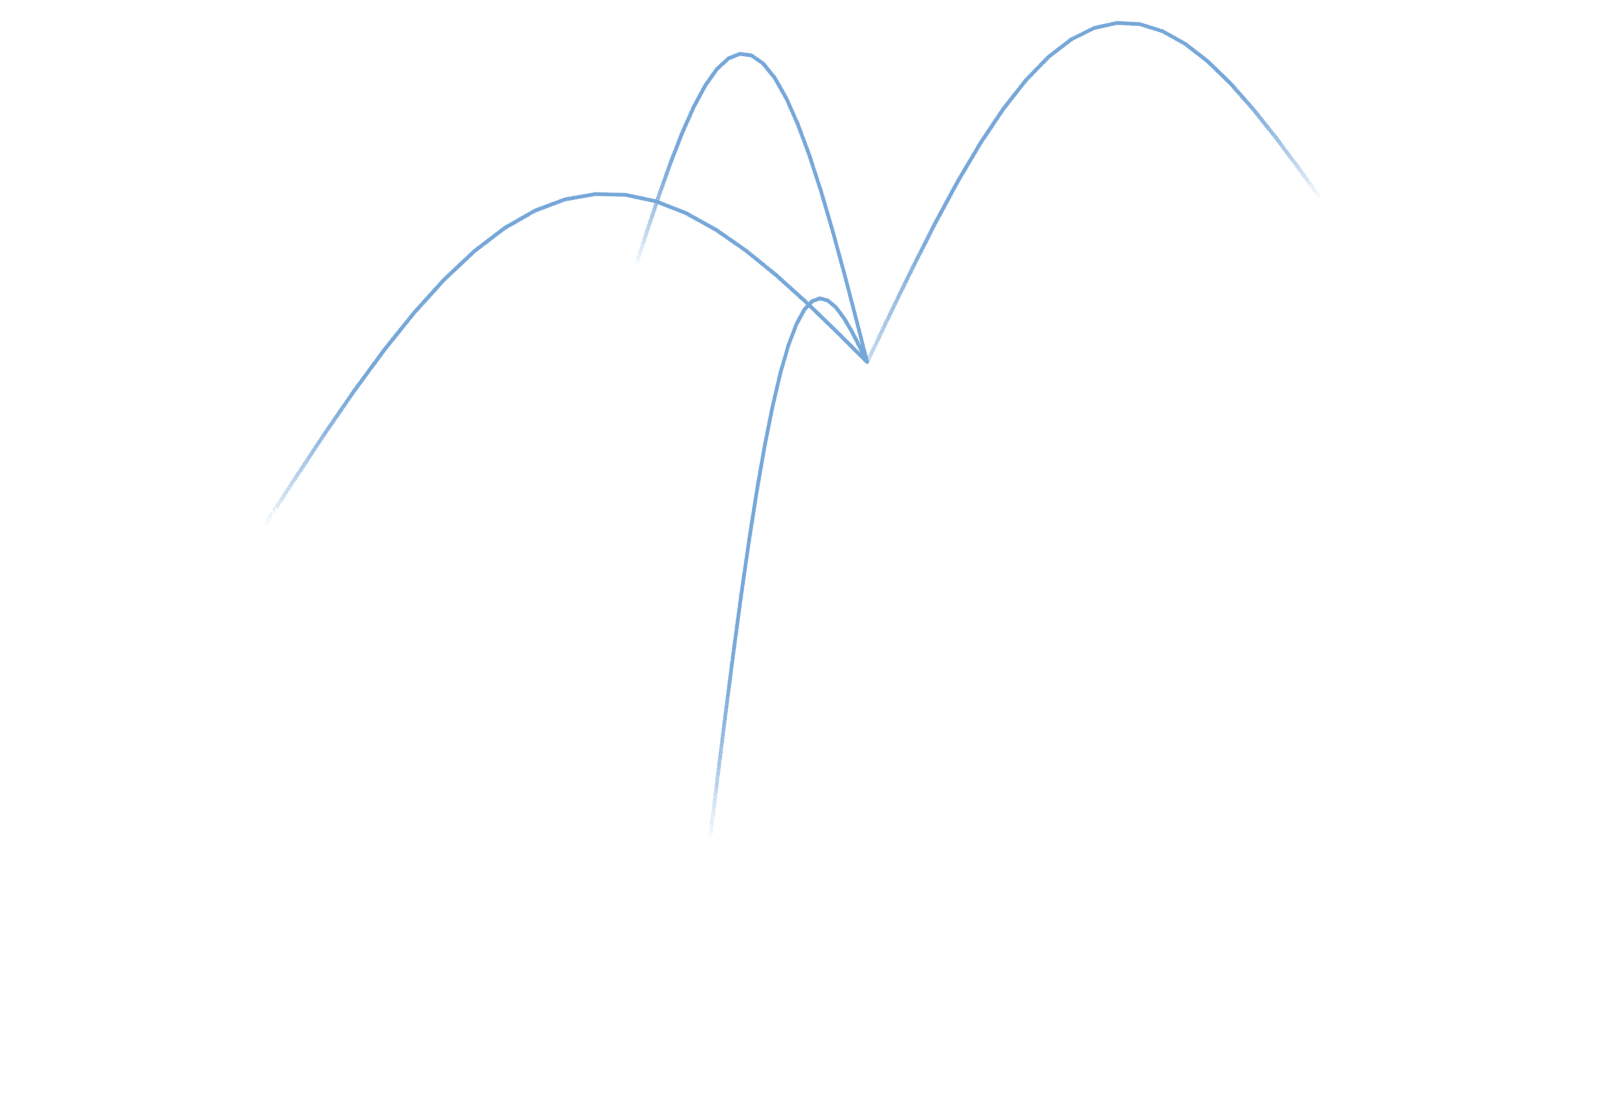
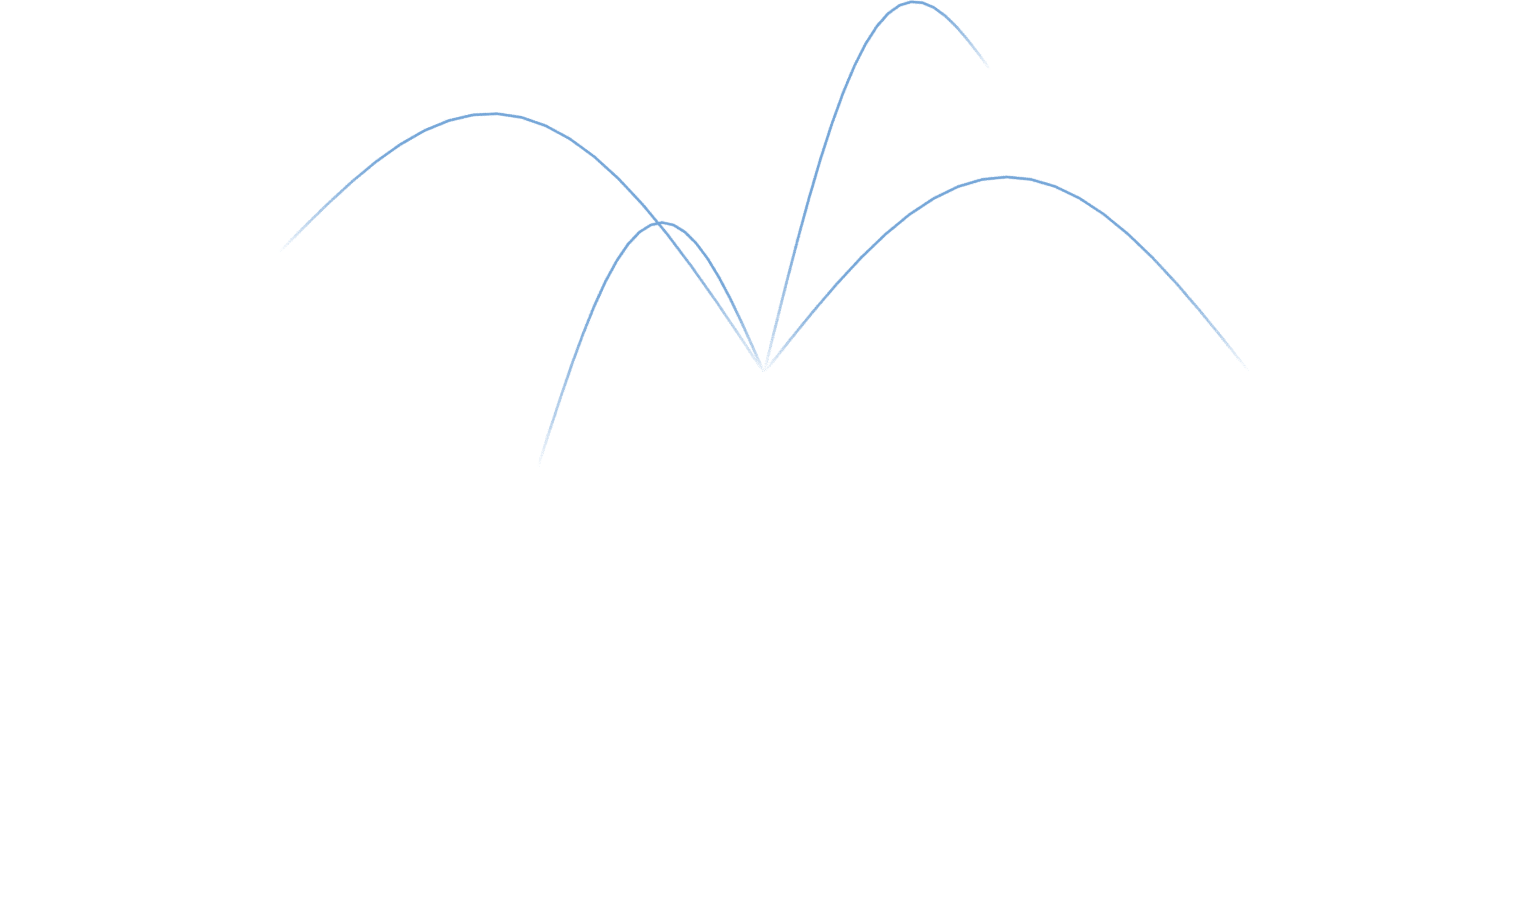
design: 무대 그래픽을 company-story 최신본으로 갈아 끼운다
public/company-story/ 의 그림·meta.json·preview.html 이 새로 뽑혔다
(HANDOFF.md 가 교체 지침). 페이지 쪽을 그 정본에 맞춘다.

- 장면 폭(SCENE_REL): meta 의 dw/860 으로 다시 계산 — 1번 0.928→0.915,
  2번 0.933→0.931. 3·4·5번은 그대로다.
- 20+ 장면 레이어 자리: 공중선 50.03%/25.94%, 네모 셋도 meta 의 ov 로 교체
  (옛 값은 전 그림 기준이라 빛이 엉뚱한 데서 돌았다).
- 마지막 장면 링: 한 겹(5-r0)을 키워 퍼뜨리던 방식을 걷고, 같은 굵기의 링
  열세 겹(5-w0~12)이 차례로 켜졌다 꺼지는 방식으로 바꾼다. 겹마다 --i(차례)·
  --pk(세기 0.32×(1-i/12))를 준다.
- 큐브: 장면 자리에서 머무는 구간을 15% → 35% 로 늘린다(preview.html 과 같게).
- 쓰지 않게 된 5-r0.webp 삭제.

빌드 71쪽 통과. 1440px 실측 — 레이어 25장(링 13) 전부 로드, 깨진 이미지 0,
장면 폭 560/570/612/612/569.

diff --git a/public/company-story/preview.html b/public/company-story/preview.html
@@ -36,10 +36,10 @@ h1{position:absolute;left:0;right:0;top:200px;text-align:center;font-size:56px;l
 /* 5번 공중 연결선 — 빛이 선을 따라 지나감 */
 #s4 .ov-arc{-webkit-mask-image:linear-gradient(100deg,transparent 38%,#000 50%,transparent 62%);mask-image:linear-gradient(100deg,transparent 38%,#000 50%,transparent 62%);-webkit-mask-size:300% 100%;mask-size:300% 100%;animation:scan 3.6s linear infinite}
 /* 6번 링 — 가운데에서 바깥으로 차례로 퍼지고, 바깥 링일수록 희미하게 */
-/* 6번 링 — 링 하나가 안쪽 링 자리에서 출발해 바깥 링 너머까지 퍼지며 흐려진다 */
-#s5 .ov-r1,#s5 .ov-r2{display:none}
-#s5 .ov-r0{opacity:0;animation:wave 3.2s cubic-bezier(.3,.55,.4,1) infinite}
-@keyframes wave{0%{opacity:0;transform:scale(1)}10%{opacity:1}80%{opacity:0;transform:scale(1.75)}100%{opacity:0;transform:scale(1.75)}}
+/* 6번 링 — 같은 굵기의 링이 안쪽 링 자리(19)에서 같은 간격으로 바깥(37)까지 한 칸씩 옮겨 가며 연해지다 사라진다 */
+#s5 .ov-r0,#s5 .ov-r1,#s5 .ov-r2{display:none}
+#s5 .ov-w{opacity:0;animation:wstep 3.9s linear infinite;animation-delay:calc(var(--i)*.3s)}
+@keyframes wstep{0%{opacity:0}2%{opacity:var(--pk)}10%{opacity:0}100%{opacity:0}}
 #cube{position:absolute;left:0;top:0;transform-origin:50% 50%;will-change:transform;z-index:5}
 </style></head><body><div class="page" id="pg">
 <h1>From the floor up<br>현장 바닥에서 올라온 산업 AI</h1>
@@ -49,15 +49,15 @@ h1{position:absolute;left:0;right:0;top:200px;text-align:center;font-size:56px;l
 <div class="t" style="left:60px;top:2330px">100+<span>데이터를 다룬 현장 수</span></div>
 <div class="t" style="left:1061px;top:2950px">20+<span>철강 · 반도체 · 식품 등 산업군 수</span></div>
 <div class="t" style="left:1061px;top:3440px;font-size:26px">30년 현장의 (주)베텍이<br>만든 제품</div>
-<div class="s in" id="s0" style="left:162px;top:440px;width:1100px;height:571px"><img src="scene-0-site.webp"></div>
-<div class="s" id="s1" style="left:531px;top:1040px;width:798px;height:535px"><img src="scene-1-team.webp"></div>
-<div class="s" id="s2" style="left:119px;top:1640px;width:802px;height:496px"><img src="scene-2-30years.webp"></div>
+<div class="s in" id="s0" style="left:162px;top:440px;width:1100px;height:556px"><img src="scene-0-site.webp"></div>
+<div class="s" id="s1" style="left:536px;top:1040px;width:787px;height:585px"><img src="scene-1-team.webp"></div>
+<div class="s" id="s2" style="left:120px;top:1640px;width:801px;height:497px"><img src="scene-2-30years.webp"></div>
 <div class="s" id="s3" style="left:450px;top:2150px;width:860px;height:536px"><img src="scene-3-100sites.webp"><img class="ov ov-grid" src="3-grid.webp" style="--ox:50.00%;--oy:35.29%"><img class="ov ov-up0" src="3-up0.webp" style="--ox:46.34%;--oy:35.14%"><img class="ov ov-up1" src="3-up1.webp" style="--ox:43.52%;--oy:33.04%"><img class="ov ov-up2" src="3-up2.webp" style="--ox:35.54%;--oy:33.14%"></div>
-<div class="s" id="s4" style="left:130px;top:2720px;width:860px;height:583px"><img src="scene-4-20industries.webp"><img class="ov ov-arc" src="4-arc.webp" style="--ox:48.95%;--oy:39.15%"><img class="ov ov-up0" src="4-up0.webp" style="--ox:47.59%;--oy:17.59%"><img class="ov ov-up1" src="4-up1.webp" style="--ox:67.61%;--oy:1.91%"><img class="ov ov-up2" src="4-up2.webp" style="--ox:34.95%;--oy:17.55%"></div>
-<div class="s" id="s5" style="left:160px;top:3310px;width:800px;height:409px"><img src="scene-5-refinery.webp"><img class="ov ov-r0" src="5-r0.webp" style="--ox:49.97%;--oy:57.64%"><img class="ov ov-r1" src="5-r1.webp" style="--ox:49.97%;--oy:57.44%"><img class="ov ov-r2" src="5-r2.webp" style="--ox:49.97%;--oy:57.03%"><img class="ov ov-b0" src="5-b0.webp" style="--ox:69.97%;--oy:16.85%"><img class="ov ov-b1" src="5-b1.webp" style="--ox:31.39%;--oy:9.96%"><img class="ov ov-b2" src="5-b2.webp" style="--ox:29.96%;--oy:48.98%"><img class="ov ov-b3" src="5-b3.webp" style="--ox:68.58%;--oy:55.53%"></div>
+<div class="s" id="s4" style="left:130px;top:2720px;width:860px;height:507px"><img src="scene-4-20industries.webp"><img class="ov ov-arc" src="4-arc.webp" style="--ox:50.03%;--oy:25.94%"><img class="ov ov-up0" src="4-up0.webp" style="--ox:54.25%;--oy:21.78%"><img class="ov ov-up1" src="4-up1.webp" style="--ox:57.40%;--oy:2.33%"><img class="ov ov-up2" src="4-up2.webp" style="--ox:34.13%;--oy:12.50%"></div>
+<div class="s" id="s5" style="left:160px;top:3310px;width:800px;height:409px"><img src="scene-5-refinery.webp"><img class="ov ov-r0" src="5-r0.webp" style="--ox:49.97%;--oy:57.64%"><img class="ov ov-r1" src="5-r1.webp" style="--ox:49.97%;--oy:57.44%"><img class="ov ov-r2" src="5-r2.webp" style="--ox:49.97%;--oy:57.03%"><img class="ov ov-b0" src="5-b0.webp" style="--ox:69.97%;--oy:16.85%"><img class="ov ov-b1" src="5-b1.webp" style="--ox:31.39%;--oy:9.96%"><img class="ov ov-b2" src="5-b2.webp" style="--ox:29.96%;--oy:48.98%"><img class="ov ov-b3" src="5-b3.webp" style="--ox:68.58%;--oy:55.53%"><img class="ov ov-w" src="5-w0.webp" style="--i:0;--pk:0.320"><img class="ov ov-w" src="5-w1.webp" style="--i:1;--pk:0.293"><img class="ov ov-w" src="5-w2.webp" style="--i:2;--pk:0.267"><img class="ov ov-w" src="5-w3.webp" style="--i:3;--pk:0.240"><img class="ov ov-w" src="5-w4.webp" style="--i:4;--pk:0.213"><img class="ov ov-w" src="5-w5.webp" style="--i:5;--pk:0.187"><img class="ov ov-w" src="5-w6.webp" style="--i:6;--pk:0.160"><img class="ov ov-w" src="5-w7.webp" style="--i:7;--pk:0.133"><img class="ov ov-w" src="5-w8.webp" style="--i:8;--pk:0.107"><img class="ov ov-w" src="5-w9.webp" style="--i:9;--pk:0.080"><img class="ov ov-w" src="5-w10.webp" style="--i:10;--pk:0.053"><img class="ov ov-w" src="5-w11.webp" style="--i:11;--pk:0.027"><img class="ov ov-w" src="5-w12.webp" style="--i:12;--pk:0.000"></div>
 <img id="cube" src="cube.webp">
 </div><script>
-const S=[[266.0, 896.6, 136.0], [760.2, 1131.9, 90.0], [643.7, 1727.4, 136.0], [1002.7, 2410.9, 55.0], [590.9, 2937.0, 90.0], [559.9, 3361.0, 136.1]];
+const S=[[263.4, 883.2, 136.0], [765.5, 1132.1, 90.0], [643.6, 1727.1, 136.0], [1002.7, 2410.9, 55.0], [557.9, 2936.5, 90.0], [559.9, 3361.0, 136.1]];
 const cube=document.getElementById('cube'),imgs=[...document.querySelectorAll('div.s')];
 const ease=t=>t<.5?4*t*t*t:1-Math.pow(-2*t+2,3)/2;
 // 큐브: 장면 사이를 포물선으로 날아가 다음 자리에 사뿐히 내려앉는다.

diff --git a/public/company-story/HANDOFF.md b/public/company-story/HANDOFF.md
@@ -1,0 +1,101 @@
+# 회사 소개 페이지 그래픽 교체 요청 (company-story 최신본)
+
+대상 파일: `src/components/CompanyPage.astro`
+그래픽 폴더: `public/company-story/` (이미지·`meta.json`·`preview.html`이 최신본, 이미 교체 완료)
+기준: `public/company-story/preview.html` 이 모션·배치의 정본. `meta.json` 이 크기·큐브 자리의 정본.
+
+## 1. 장면 폭 — `SCENE_REL` 교체
+meta.json 의 `dw`(권장 폭, 1440px 화면 기준)를 가장 넓은 860 으로 나눈 값.
+
+```ts
+const SCENE_REL: Record<number, number> = { 1: 0.915, 2: 0.931, 3: 1.000, 4: 1.000, 5: 0.930 };
+```
+- 메인(scene-0)은 표시 폭 1100px(`meta.json` '0'.dw). 현재 900px 로 잡혀 있으면 1100px 로 변경.
+- 장면별 `dw`: 0=1100 / 1=787 / 2=801 / 3=860 / 4=860 / 5=800
+
+## 2. 모션 레이어 — `SCENE_LAYERS` 교체
+레이어 이미지는 모두 바탕 그림과 같은 크기의 전체 캔버스. 위치값은 `meta.json` 의 `ov`(원본 픽셀)를 백분율로 바꾼 값.
+
+```ts
+const SCENE_LAYERS: Record<number, Layer[]> = {
+  3: [ // 100+
+    { file: '3-grid.webp', cls: 'ov-grid', ox: '50.00%', oy: '35.36%' },
+    { file: '3-up0.webp',  cls: 'ov-up0',  ox: '46.34%', oy: '35.20%' },
+    { file: '3-up1.webp',  cls: 'ov-up1',  ox: '43.53%', oy: '33.05%' },
+    { file: '3-up2.webp',  cls: 'ov-up2',  ox: '35.56%', oy: '33.21%' },
+  ],
+  4: [ // 20+  (예전 4-spoke-base / 4-spoke / 4-r0 / 4-r1 은 삭제 — 새 그림에 없음)
+    { file: '4-arc.webp', cls: 'ov-arc', ox: '50.03%', oy: '25.94%' },
+    { file: '4-up0.webp', cls: 'ov-up0', ox: '54.25%', oy: '21.78%' },
+    { file: '4-up1.webp', cls: 'ov-up1', ox: '57.40%', oy: '2.33%' },
+    { file: '4-up2.webp', cls: 'ov-up2', ox: '34.13%', oy: '12.50%' },
+  ],
+  5: [ // 마지막 (움직이는 링은 r2 레이어 하나)
+    // 퍼지는 링: 5-w0 ~ 5-w12 (13장, 같은 굵기, 안쪽→바깥 순서). 각 레이어에 style="--i:번호;--pk:세기"
+    //   --pk = 0.32 × (1 − i/12)  → 바깥으로 갈수록 연해지고 마지막 장은 0
+    { file: '5-b0.webp', cls: 'ov-b0', ox: '69.94%', oy: '16.83%' },
+    { file: '5-b1.webp', cls: 'ov-b1', ox: '31.42%', oy: '9.95%' },
+    { file: '5-b2.webp', cls: 'ov-b2', ox: '29.99%', oy: '48.91%' },
+    { file: '5-b3.webp', cls: 'ov-b3', ox: '68.55%', oy: '55.45%' },
+  ],
+};
+```
+- 6번 떠 있는 도형 4개(5-b0~b3)는 바탕 그림에 없음 → 레이어를 빼면 도형이 사라짐.
+- 나머지 레이어(그리드·네모·공중선·링)는 바탕에도 정지 상태로 그려져 있어, 빠지면 움직임만 없어짐.
+
+## 3. 모션 CSS (preview.html 과 동일하게)
+레이어 공통: `position:absolute; inset:0; width:100%; height:100%; transform-origin: var(--ox) var(--oy);`
+
+```css
+/* 4번 데이터 층 테두리 — 스캔 빛이 대각선으로 지나감 */
+.ov-grid{-webkit-mask-image:linear-gradient(110deg,transparent 40%,#000 50%,transparent 60%);mask-image:linear-gradient(110deg,transparent 40%,#000 50%,transparent 60%);-webkit-mask-size:300% 100%;mask-size:300% 100%;animation:scan 4.5s linear infinite}
+/* 5번 공중선 — 빛이 선을 따라 지나감 */
+.ov-arc{-webkit-mask-image:linear-gradient(100deg,transparent 38%,#000 50%,transparent 62%);mask-image:linear-gradient(100deg,transparent 38%,#000 50%,transparent 62%);-webkit-mask-size:300% 100%;mask-size:300% 100%;animation:scan 3.6s linear infinite}
+@keyframes scan{from{-webkit-mask-position:100% 0;mask-position:100% 0}to{-webkit-mask-position:0 0;mask-position:0 0}}
+/* 4·5번 네모 — 차례로 깜빡임 */
+.ov-up0,.ov-up1,.ov-up2{opacity:0;animation:blink 2.4s ease-in-out infinite}
+.ov-up1{animation-delay:.8s}.ov-up2{animation-delay:1.6s}
+@keyframes blink{0%,100%{opacity:0}40%,55%{opacity:1}}
+/* 6번 링 — 같은 굵기의 링이 한 칸씩(같은 간격) 바깥으로 옮겨 가며 연해지다 사라짐 */
+.ov-w{opacity:0;animation:wstep 3.9s linear infinite;animation-delay:calc(var(--i)*.3s)}
+@keyframes wstep{0%{opacity:0}2%{opacity:var(--pk)}10%{opacity:0}100%{opacity:0}}
+/* 6번 떠 있는 도형 4개 — 천천히 위아래로 */
+.ov-b0,.ov-b1,.ov-b2,.ov-b3{animation:bob 3.4s ease-in-out infinite}
+.ov-b1{animation-delay:-.85s}.ov-b2{animation-delay:-1.7s}.ov-b3{animation-delay:-2.55s}
+@keyframes bob{0%,100%{transform:translateY(0)}50%{transform:translateY(-4.5%)}}
+@media (prefers-reduced-motion: reduce){.ov-grid,.ov-arc,.ov-up0,.ov-up1,.ov-up2,.ov-w{display:none}.ov-b0,.ov-b1,.ov-b2,.ov-b3{animation:none}}
+```
+- 6번 링·5번 공중선·4번 세로선의 "아래쪽 흐려짐"은 이미지에 이미 들어가 있음 (CSS 작업 없음).
+- 기존 클래스 `spk-base`, `spk-flow`, `ov-r0`, `ov-r1` 관련 CSS 는 삭제해도 됨.
+
+## 4. 파란 네모 블록(큐브) 이동
+- 자리·크기는 `meta.json` 의 `ax · ay · k` 를 그대로 읽으면 됨(현재 코드 방식 유지). 화면 크기: 1·3·6번 136px, 2·5번 90px, 4번 55px.
+- 움직임을 `preview.html` 의 스크립트로 교체:
+  - 각 장면 자리에서 구간 앞 35% 동안 머문 뒤(착지 후 잠시 고정), 포물선으로 다음 자리로 이동(ease-in-out).
+  - 도착 직전 살짝 눌렸다 펴지는 착지(`transform-origin: 50% 90%`, scale).
+  - 화면 위치는 목표값을 매 프레임 14%씩 따라가는 관성 처리(스크롤이 끊겨도 부드럽게).
+
+```js
+const easeIO=t=>t<.5?4*t*t*t:1-Math.pow(-2*t+2,3)/2;
+// A = 각 장면 큐브 자리 [{x,y,s}] (지금 코드의 A 계산 그대로), mid = 화면 55% 지점
+function target(mid){
+  let x=A[0].x,y=A[0].y,s=A[0].s,r=0,q=1;
+  for(let i=0;i<A.length-1;i++){
+    const a=A[i],b=A[i+1],span=b.y-a.y,t0=a.y+span*.35,t1=b.y-span*.05;
+    if(mid<=t0)break;
+    const t=Math.min(1,(mid-t0)/(t1-t0)),e=easeIO(t);
+    x=a.x+(b.x-a.x)*e; y=a.y+(b.y-a.y)*e-Math.sin(Math.PI*e)*Math.min(span*.12,90);
+    s=a.s+(b.s-a.s)*e; r=Math.sin(Math.PI*e)*(i%2?-70:70)*(1-e*.2);
+    q=t>.9?1-Math.sin((t-.9)/.1*Math.PI)*.08:1;
+    if(t<1)break;
+  }
+  return {x,y,s,r,q};
+}
+// 매 프레임: cur += (target - cur) * 0.14  (x,y,s,r,q 각각)
+// cube.style.transformOrigin='50% 90%';
+// cube.style.transform=`translate(${x-s/2}px,${y-s*.54}px) rotate(${r}deg) scale(${1+(1-q)*.6},${q})`;
+```
+※ 스크롤 이벤트 때만 그리지 말고 requestAnimationFrame 루프로 계속 그려야 관성이 살아남.
+
+## 5. 정리해도 되는 옛 파일 (페이지에서 참조 끊은 뒤 삭제)
+`4-spoke.webp`, `4-spoke-base.webp`, `4-r0.webp`, `4-r1.webp`, `5-r0.webp`, `5-r1.webp`
